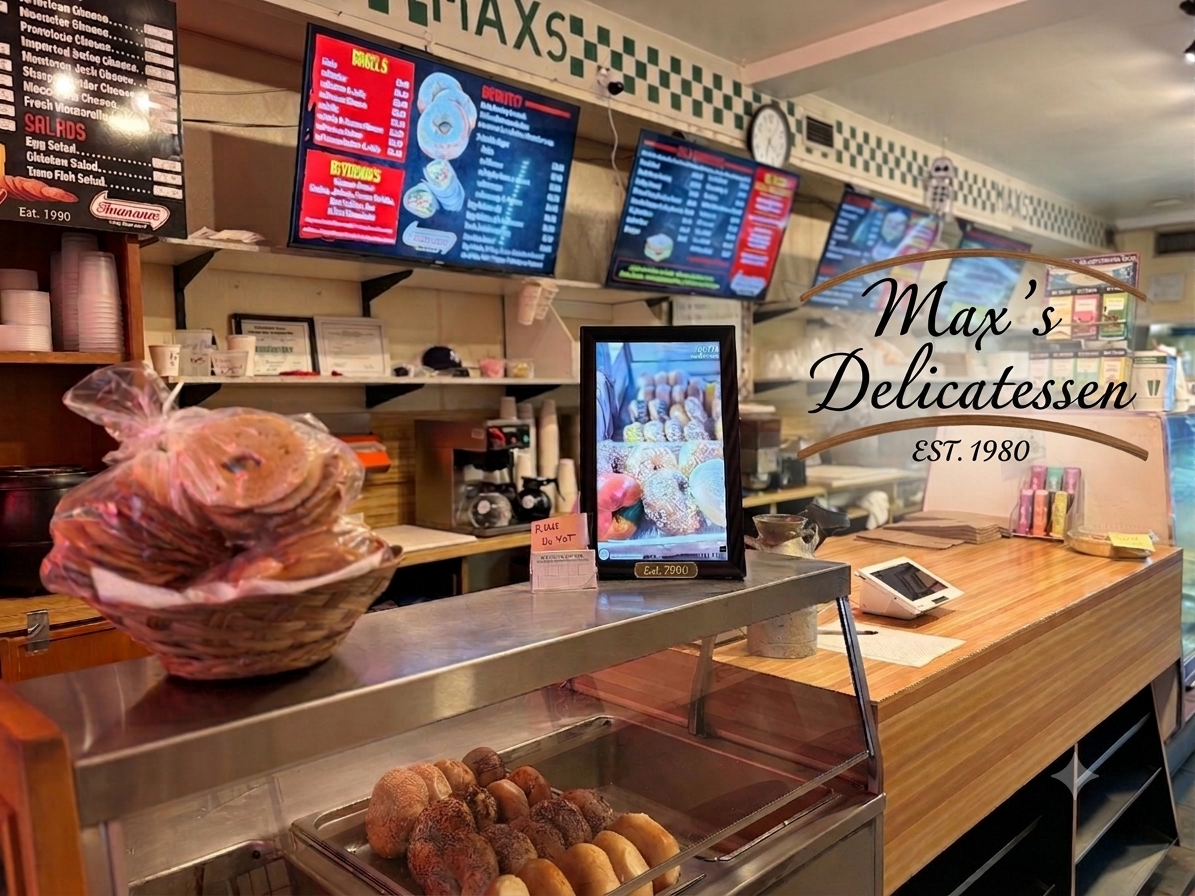
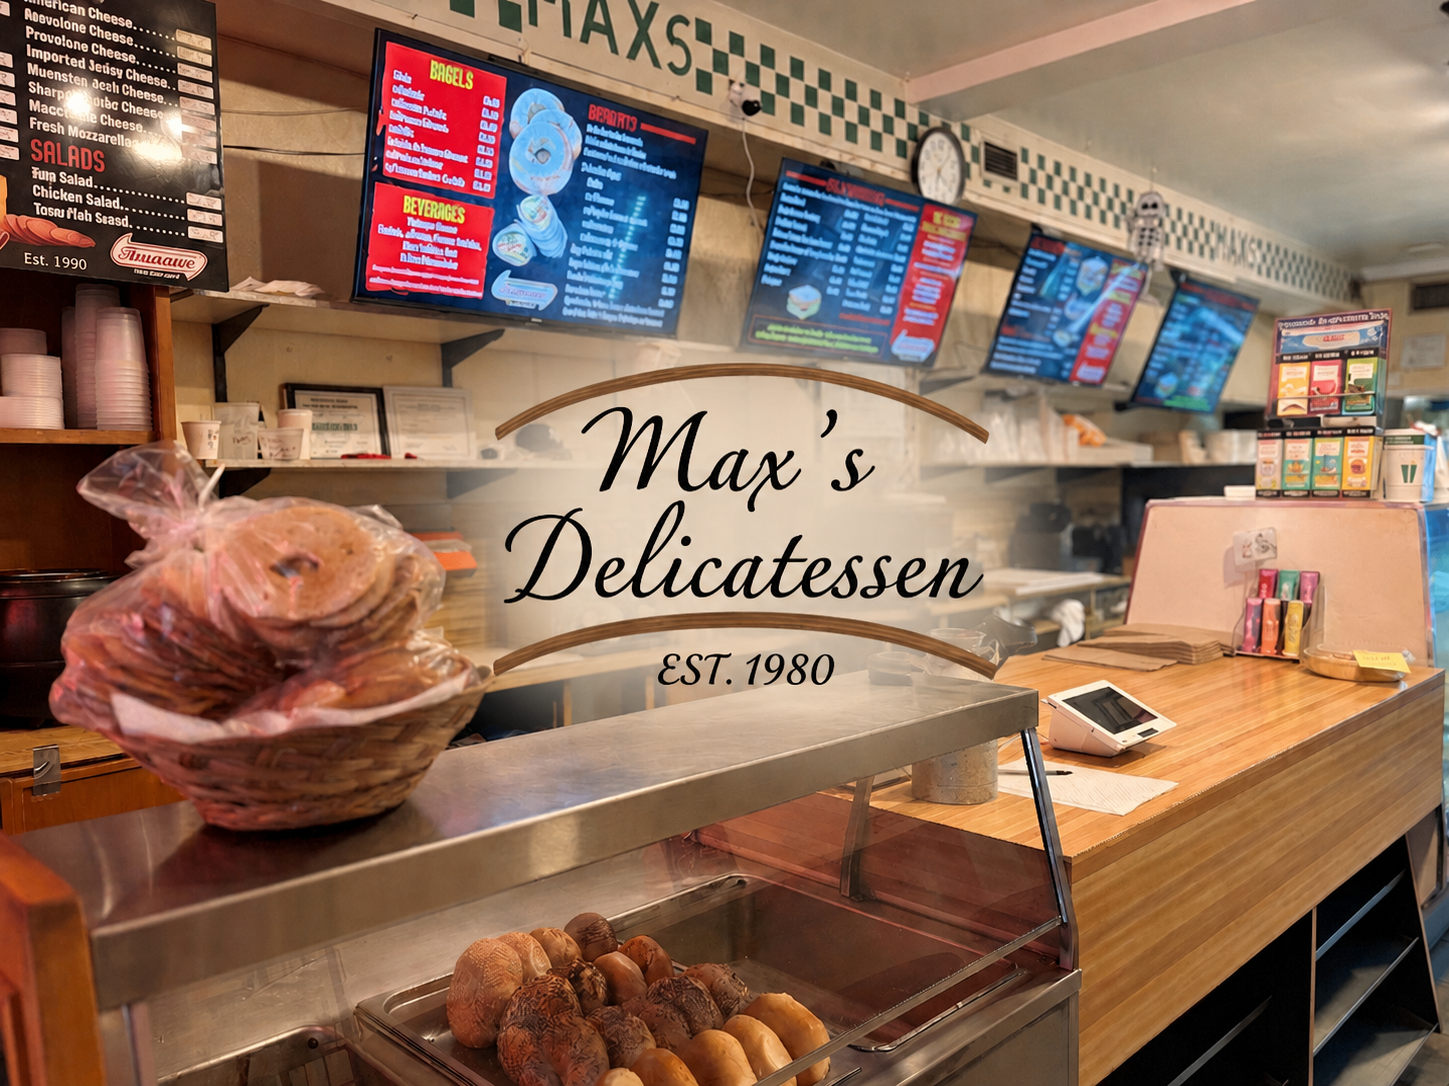
daily special update

diff --git a/dailySpecial.html b/dailySpecial.html
@@ -58,7 +58,7 @@
 
 
 
-    <h4 class="mb-2">🌸 Thursday August 6th, 2026 🍁</h4>
+    <h4 class="mb-2">🌸 Friday August 7th, 2026 🍁</h4>
 
     </section>
 
@@ -71,14 +71,19 @@
     </a>
 
     <!-- SALADS -->
-    <!-- <div>
+    <div>
       <i>
         <h1 style="text-align: center; text-decoration: underline; color: red;"> Chef's Salad Specials</h1>
-        By the pound
-      </i>
+         </i>
     </div>
 
     <div class="special-item">
+      <div class="special-name">🥗 German Potato Salad 🥗</div>
+      <div class="special-description"> Warm red potatoes tossed with crispy bacon, onions, and a tangy vinegar dressing.</div>
+      <div class="special-price"> $6.99 pr lb</div>
+    </div>
+
+    <!-- <div class="special-item">
       <div class="special-name">🥗 Chef's Salad 🥗</div>
       <div class="special-description"> Fresh garden greens topped with turkey, ham, cheese, tomatoes, cucumbers, and
         hard-boiled egg.</div>.
@@ -98,15 +103,15 @@
         <h1 style="text-align: center; text-decoration: underline; color: red;">SOUPS OF THE DAY</h1>
       </i>
     </div>
-       
-     <div class="special-item">
-      <div class="special-name">🍲 Turkey Barley Soup 🍲</div>
-      <div class="special-description">Hearty turkey soup with tender barley and vegetables simmered to perfection.</div>
-    </div>
-
+      
     <div class="special-item">
       <div class="special-name">🍲 Split Pea Soup 🍲</div>
       <div class="special-description">Savory tomato-based soup loaded with tender clams, potatoes, and garden vegetables.</div>
+    </div>
+ 
+     <div class="special-item">
+      <div class="special-name">🍲 Turkey Barley Soup 🍲</div>
+      <div class="special-description">Hearty turkey soup with tender barley and vegetables simmered to perfection.</div>
     </div>
 
 <!-- 
@@ -134,39 +139,45 @@
     <hr>
 
     <div class="special-item">
+      <div class="special-name">🍤SeaFood Salad - SPECIAL 🦐</div>
+      <div class="special-description">Shrimp & Crab meat w/ creamy dressing & crisp vegetables, flavorful, & served as a Sandwich or by the pound.</div>
+      <div class="special-price">*Sandwich $11.45 / Platter $12.45</div>
+    </div>
+    
+    <div class="special-item">
+      <div class="special-name">🐔 Homestyle Chicken Meatloaf 🥩</div>
+      <div class="special-description">Juicy chicken meatloaf baked with savory onions, celery in homestyle gravy, served as a platter or on a *Sandwich.</div>
+      <div class="special-price">*Sandwich $10.95 / Platter $11.95</div>
+    </div>
+
+    <div class="special-item">
       <div class="special-name">🥩 YANKEE POT ROAST SPECIAL 🥩</div>
       <div class="special-description">Slow-cooked beef pot roast served with rich gravy and hearty vegetables or mashed potatoes.</div>
       <div class="special-price">*Sandwich $11.45 / Platter $12.45</div>
     </div>
 
     <div class="special-item">
-      <div class="special-name">🍗 Chicken Cacciatore w/ Pasta 🍝</div>
-      <div class="special-description">Tender chicken in a hearty tomato sauce w/ peppers, onions, & Italian herbs, served as a platter or *Sandwich.</div>
-      <div class="special-price">*Sandwich $10.95 / Platter $11.95</div>
-    </div>
-
-    <div class="special-item">
-      <div class="special-name">🐄 Corned Beef and Pastrami Reuben 🥪</div>
-      <div class="special-description">Toasted rye with corned beef, pastrami, Swiss cheese, sauerkraut, and Russian dressing.</div>
-      <div class="special-price">*Sandwich - $11.95</div>
-    </div>
-
-    <div class="special-item">
-      <div class="special-name">🍗 Breaded Chicken w/Spinach & Provolone 🧀 </div>
-      <div class="special-description">Crispy breaded chicken breast w/ Spinach & melted Provolone, served as a platter or *Sandwich.</div>
+      <div class="special-name">🐔 Chicken Francaise in 🍋Lemon Sauce</div>
+      <div class="special-description">Lightly battered chicken sautéed in a tangy lemon-butter sauce, served as a platter or *Sandwich.</div>
       <div class="special-price">*Sandwich $10.95 / Platter $11.95</div>
     </div>
     
     <div class="special-item">
-      <div class="special-name">🍗 Marinated Grilled Chicken Breast 🍗</div>
-      <div class="special-description">Tender grilled chicken marinated in a blend of herbs & spices. served as a Platter or *Sandwich.</div>
+      <div class="special-name">Sausage w/ Sauteed Peppers & Onions🧅</div>
+      <div class="special-description">Italian sausage w/ sautéed peppers & onions in tomato sauce served as a platter or on a *Sandwich.</div>
+      <div class="special-price">*Sandwich $10.95 / Platter $11.95</div>
+    </div>
+
+    <div class="special-item">
+      <div class="special-name">🍗 Homestyle Breaded Chicken Cutlet</div>
+      <div class="special-description">Crispy breaded chicken cutlet, served as a Platter or *Sandwich.</div>
       <div class="special-price">*Sandwich $10.25 / Platter $11.25</div>
     </div>
 
     <div class="special-item">
-      <div class="special-name">🦃 Fresh Turkey BLT 🌯</div>
-      <div class="special-description">Fresh Turkey w/, lettuce & tomato, crisp bacon, Cheddar cheese, on a choice of wrap and dressing.</div>
-      <div class="special-price">$11.95 - 🌯</div>
+      <div class="special-name">🎣 Tuna Fish Salad Wrap 🌯</div>
+      <div class="special-description">Fresh tuna salad wrapped with lettuce, tomato, and your choice of cheese.</div>
+      <div class="special-price">$11.45 - 🌯</div>
     </div>
 
     <div>
